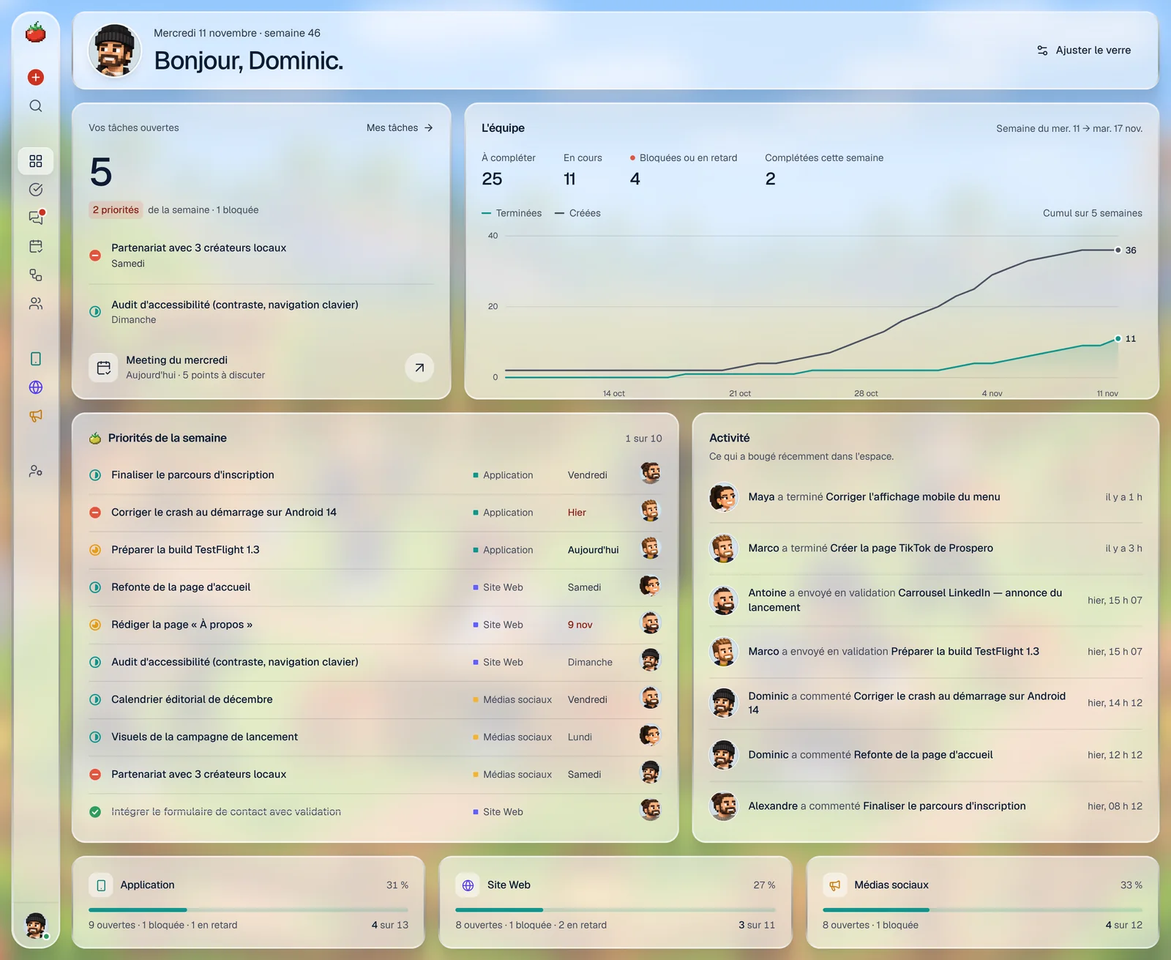
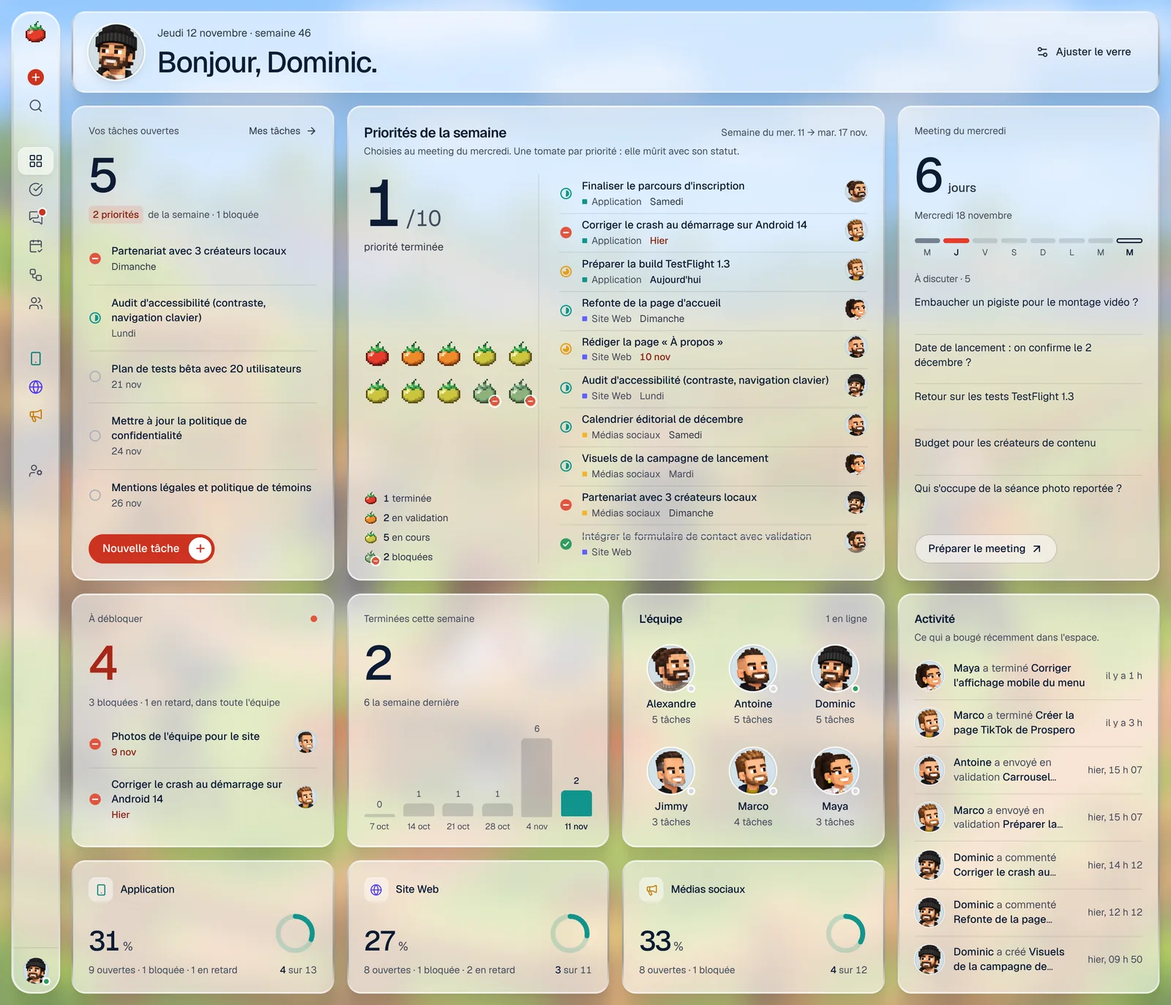
Docs: the new dashboard; a steadier arrival scenario
The design document describes the bento tile by tile (the week's priorities
and their tomato patch, the tiles led by a large figure, the meeting tile and
its dark face while a meeting runs, the team's faces, the rings), the type
scale of the figures, what moves on arrival, and the contrast as re-measured
on the eight screens. Screenshots of the dashboard retaken, one added for the
live meeting. The README follows, with the 44 scenarios.

The helper line under the heading of the priorities runs the whole width of
the tile. The arrival scenario waits for the stylesheet before reading
computed styles: it read them too early on a loaded machine.

Claude-Session: https://claude.ai/code/session_01FogaosSJpqDW3pFqCh4GHN

diff --git a/e2e/demo.spec.ts b/e2e/demo.spec.ts
@@ -418,9 +418,10 @@ test.describe("Dashboard", () => {
     // La ferme est en pleine vue, nette : ni navigation ni contenu tant que la tomate saute sur sa plaque.
     await expect(page.locator(".preloader .preloader-plate")).toBeVisible();
     await expect(page.locator('.gw-scope > div[aria-hidden] img[src*="ferme"]')).toBeVisible();
+    // (Lus en attendant qu'ils soient vrais : la feuille de style peut arriver un instant après le HTML.)
+    await expect.poll(sceneVeil).toBe("0");
     expect(await sceneFilter()).toBe("none");
-    expect(await sceneVeil()).toBe("0");
-    expect(await styleOf('nav[aria-label="Navigation principale"]', "opacity")).toBe("0");
+    await expect.poll(() => styleOf('nav[aria-label="Navigation principale"]', "opacity")).toBe("0");
     await expect(page.getByRole("heading", { name: /Dominic/ })).toBeHidden();
 
     // Elle prend son temps (la chute et deux tours de saut), puis la plaque s'en va, l'image
@@ -636,6 +637,7 @@ test.describe("Dashboard", () => {
     // Un visage mène aux tâches de la personne.
     await tile("L'équipe").getByRole("link", { name: /^Maya Martel : 3 tâches ouvertes/ }).click();
     await expect(page).toHaveURL(/\/mes-taches\?membre=/);
+    await expect(page.getByRole("heading", { name: "Tâches de Maya" })).toBeVisible();
   });
 
   test("le meeting a sa tuile : le compte à rebours et les points à discuter, puis l'horloge quand il est en direct", async ({ page }) => {

diff --git a/src/components/dashboard/panel.tsx b/src/components/dashboard/panel.tsx
@@ -34,16 +34,18 @@ export function Panel({
 }) {
   return (
     <section className={cn("gw-panel gw-reveal @container/panel", className)} style={{ animationDelay: `${delay}ms` }}>
-      <header className={cn("gw-panel-title", description && "items-start", hero && "gw-panel-hero")}>
+      <header className={cn("gw-panel-title", description && !hero && "items-start", hero && "gw-panel-hero")}>
         <div className="min-w-0">
           <div className="flex min-w-0 items-center gap-2">
             {lead}
             {quiet ? <h2 className="gw-panel-label truncate">{title}</h2> : <h2 className="truncate">{title}</h2>}
           </div>
-          {description && <p className="mt-1 text-xs leading-4 text-navy-600">{description}</p>}
+          {description && !hero && <p className="mt-1 text-xs leading-4 text-navy-600">{description}</p>}
         </div>
         {aside && <div className="flex shrink-0 items-center gap-1.5">{aside}</div>}
       </header>
+      {/* Under a large heading the line runs the whole width of the tile, not just beside the aside. */}
+      {description && hero && <p className="mb-5 text-xs leading-4 text-navy-600">{description}</p>}
       {children}
     </section>
   );

diff --git a/src/app/globals.css b/src/app/globals.css
@@ -564,7 +564,7 @@
   }
   /* The heading of the tile the page is built around. */
   .gw-panel-title.gw-panel-hero {
-    margin-bottom: 20px;
+    margin-bottom: 3px;
   }
   .gw-panel-title.gw-panel-hero h2 {
     font-size: 17px;

diff --git a/docs/DESIGN.md b/docs/DESIGN.md
@@ -11,7 +11,7 @@ Ce document décrit *pourquoi* l'interface est construite ainsi : les principes,
 | **Efficacité** | Créer et assigner une tâche : un titre, `Entrée`. Chaque propriété se modifie là où elle s'affiche, en un clic. `C` crée, `⌘K` trouve. |
 | **Minimalisme** | Du texte, des filets, de l'air. Le contenu est presque monochrome : l'encre, des gris, et très peu de couleur. La matière, elle, est du verre posé sur un paysage : c'est lui qui donne la couleur, pas des aplats ni des capsules. Une information n'apparaît qu'une fois par écran. |
 
-Ce qui a été volontairement laissé de côté : étiquettes, dépendances, estimation, automatisations réelles, vues personnalisées, tableaux de bord de graphiques (un seul graphique, sur le dashboard).
+Ce qui a été volontairement laissé de côté : étiquettes, dépendances, estimation, automatisations réelles, vues personnalisées, tableaux de bord de graphiques (un seul petit graphique, sur le dashboard : les tâches terminées par semaine).
 
 ## 2. Structure des écrans
 
@@ -38,20 +38,27 @@ Au repos, la navigation est un rail d'icônes : le contenu a toute la place. On 
 
 ### Dashboard — « où en est-on ? »
 
-Un bento de tuiles de verre posées **directement sur l'image** : pas de feuille derrière elles, jamais de verre sur du verre. Chaque tuile est le verre (son anneau, sa face claire, son ombre) ; la photo, givrée, se voit entre les tuiles comme à travers elles. Le bento occupe toute la zone à côté de la navigation et s'aligne sur elle : même haut, même bas, et le même écart de 14 px que la fenêtre des autres écrans. Sur un écran haut, la première rangée prend la place qui reste (un graphique plus haut, davantage de mes tâches) ; sur un écran plus court, le bento défile sous une navigation qui ne bouge pas. La composition vient du tableau de bord de référence : la salutation sur toute la largeur, une tuile étroite et une large, une large et une étroite, puis une rangée de tuiles égales. Les colonnes suivent la largeur disponible, pas celle de l'écran.
+Un bento de tuiles de verre posées **directement sur l'image** : pas de feuille derrière elles, jamais de verre sur du verre. Chaque tuile est le verre (son anneau, sa face claire, son ombre) ; la photo, givrée, se voit entre les tuiles comme à travers elles. Le bento occupe toute la zone à côté de la navigation et s'aligne sur elle : même haut, même bas, et le même écart de 14 px que la fenêtre des autres écrans. Sur un écran haut, la rangée des chiffres prend la place qui reste ; sur un écran plus court, le bento défile sous une navigation qui ne bouge pas.
 
-Le bento est régulier : les tuiles d'une rangée ont la même hauteur, les rangées se suivent sans trou, et aucune tuile n'est à moitié vide. Une tuile remplit la place qu'elle a avec son propre contenu : la liste des priorités donne sa hauteur à sa rangée, et les listes voisines montrent autant de lignes entières qu'il en tient (`.gw-fit`). Les lignes qui n'ont pas la place sont aussi hors du parcours clavier et des lecteurs d'écran.
+**Chaque tuile a sa forme et sa façon de parler.** Un tableau de bord dont toutes les sections sont la même tuile contenant une liste se lit mal : rien n'y dit par où commencer. Ici, une tuile large au milieu, celle autour de laquelle la page est construite (les priorités de la semaine) ; à sa gauche mes tâches, à sa droite le meeting ; trois tuiles qui sont chacune un grand chiffre ; les visages de l'équipe ; une tuile haute sur le côté (l'activité) ; et une rangée de projets. Quatre colonnes à partir de 1280 px de place, deux en dessous, une sur téléphone.
 
-1. **Salutation** : une tuile comme les autres, avec le portrait de la personne, la date et la semaine, et « Ajuster le verre ».
-2. **Vos tâches ouvertes** : le seul grand chiffre de la page, ce qu'il contient (priorités, retards, blocages), les tâches à prendre en premier (priorités, puis retards, puis ce qui est en cours) et, en dessous, le prochain **meeting du mercredi** à un clic.
-3. **L'équipe** : les quatre chiffres (à compléter · en cours · bloquées ou en retard · complétées cette semaine), puis le **rythme** : tâches créées et terminées, cumulées sur cinq semaines. L'écart entre les deux courbes est le travail ouvert ; on voit d'un coup d'œil si l'équipe ferme les tâches aussi vite qu'elle en ajoute.
-4. **Priorités de la semaine** : statut (le glyphe se clique pour le changer), titre, projet, échéance, responsable. La tomate mûrit à mesure qu'elles se terminent.
-5. **Activité** : qui a fait quoi, sur quelle tâche, et quand : un portrait, une phrase, l'heure. Autant d'événements que la hauteur des priorités le permet.
-6. **Projets** : une tuile par projet, toutes égales, avec sa barre d'avancement ; un clic ouvre le projet. Quand la fenêtre est étroite elles passent à la ligne, et la dernière rangée occupe toujours toute la largeur.
+Le bento reste régulier : les tuiles d'une rangée ont la même hauteur, les rangées se suivent sans trou, et aucune tuile n'est à moitié vide. Une tuile remplit la place qu'elle a avec son propre contenu : la liste des priorités donne sa hauteur à sa rangée, et les listes voisines montrent autant de lignes entières qu'il en tient (`.gw-fit`). Les lignes qui n'ont pas la place sont aussi hors du parcours clavier et des lecteurs d'écran.
 
-Le graphique se lit au survol ou au clavier (flèches gauche et droite, un jour à la fois) et ses chiffres existent aussi dans un tableau pour les lecteurs d'écran.
+1. **Salutation** : sur toute la largeur, avec le portrait de la personne, la date et la semaine, et « Ajuster le verre ».
+2. **Vos tâches ouvertes** : un grand chiffre, ce qu'il contient (priorités, retards, blocages), les tâches à prendre en premier (priorités, puis retards, puis ce qui est en cours) et **Nouvelle tâche**, l'action principale de la page.
+3. **Priorités de la semaine** : le score en très grand (« 1/10 »), puis le **potager** : une tomate par priorité, qui mûrit avec son statut (verte à faire, tournante en cours, orangée en validation, rouge terminée ; pâlie et marquée du glyphe « bloqué » quand elle n'avance plus), rangées de la plus mûre à la plus verte, ce qui en fait aussi une barre d'avancement. Chaque tomate est un bouton qui ouvre sa tâche. À côté, la légende et la liste : statut (le glyphe se clique pour le changer), titre, projet, échéance, responsable. Changer un statut dans la liste fait mûrir la tomate.
+4. **Meeting du mercredi** : dans combien de jours, une règle de la semaine (les sept jours qui y mènent, aujourd'hui en tomate, le meeting au bout), les points à discuter, et l'entrée. Pendant un meeting la tuile devient **sombre** (le sombre veut dire « en direct », ici comme sur la page du meeting) et montre l'horloge ; ensuite, « Terminé » et le chemin du récapitulatif.
+5. **À débloquer** : le nombre de tâches bloquées ou en retard dans toute l'équipe (le seul chiffre en rouge de la page : c'est celui qui demande quelque chose), puis les premières, à un clic.
+6. **Terminées cette semaine** : le chiffre, celui de la semaine dernière, et une barre par semaine (de mercredi à mardi) sur six semaines ; la semaine en cours est en teal.
+7. **L'équipe** : un visage, un prénom, le nombre de tâches ouvertes ; un clic ouvre les tâches de la personne.
+8. **Activité** : qui a fait quoi, sur quelle tâche, et quand : un portrait, une phrase, l'heure. C'est la tuile haute sur le côté ; elle montre autant d'événements que sa hauteur le permet.
+9. **Projets** : une tuile par projet, toutes égales, avec son pourcentage et son anneau ; un clic ouvre le projet.
+
+Les chiffres comptent depuis zéro quand leur tuile arrive, les tomates et les barres se posent l'une après l'autre, les anneaux se dessinent ; rien de tout cela ne bouge avec « moins de mouvement ». Ce que montrent ces dessins existe aussi en mots : chaque tomate porte le titre, le statut et le responsable de sa tâche, chaque barre son compte, chaque anneau « n tâches terminées sur m ».
 
 ![Dashboard](screenshots/dashboard.webp)
+
+![Le dashboard pendant un meeting : la tuile sombre et son horloge](screenshots/dashboard-en-direct.webp)
 
 ### Projet — tableau et kanban
 
@@ -171,7 +178,7 @@ Du verre sur un paysage, et un contenu très sobre posé dessus. L'idée vient d
 
 | Élément de marque | Où | Règle |
 |---|---|---|
-| **Tomate** (`kit/pixel-tomato.tsx`) | Logo, préchargeur, connexion, à côté de « Priorités de la semaine » | Grille 16 × 16, dessinée en code, tailles multiples de 16. À côté des priorités, elle **mûrit** en quatre étapes (verte → tournante → orangée → rouge) à mesure qu'elles se terminent. |
+| **Tomate** (`kit/pixel-tomato.tsx`) | Logo, préchargeur, connexion, potager des priorités de la semaine | Grille 16 × 16, dessinée en code, tailles multiples de 16. Dans le potager du dashboard il y en a une par priorité : elle **mûrit** en quatre étapes (verte → tournante → orangée → rouge) avec le statut de sa tâche. |
 | **Lettrage pixel** (`kit/pixel-text.tsx`) | Le nom, sur l'écran de connexion seulement | Alphabet 5 × 7 dessiné pixel par pixel. Jamais dans l'espace de travail. |
 | **Portraits** (`public/avatars`, `lib/avatars.ts`) | Partout où une personne apparaît : salutation, tâches, messages, équipe, navigation | Les portraits en pixel art des six partenaires, des carrés de 256 px. Un membre reçoit le sien par son nom (ou son prénom seul, quand le profil n'a que lui) ; sans portrait, l'avatar montre des initiales sur la couleur du membre. Six tailles, de 24 à 72 px : 28 px dans une ligne de tâche, 32 px dans un fil de messages, 56 à 64 px à côté de la salutation. |
 
@@ -186,7 +193,7 @@ Du verre sur un paysage, et un contenu très sobre posé dessus. L'idée vient d
 | **Tuiles** | `.gw-panel` | Deux cas, pour ne jamais poser du verre sur du verre. **Sur le dashboard**, il n'y a pas de fenêtre : chaque tuile est le verre, posée sur l'image, avec le même anneau (2 px), la même face que les feuilles (58 % par défaut) et l'ombre en huit couches. **Dans une fenêtre** (messages, paramètres), une tuile n'est qu'une zone de la feuille : une face un peu plus pleine, une arête éclairée, une ombre à peine marquée, pas d'anneau. Coins de 17 px. |
 | **Panneaux denses** | `.card-surface` | Tableaux, listes du meeting, colonnes du kanban : la même tuile, un peu plus remplie pour que le texte dense reste lisible. |
 | **En-tête de page** | `.glass` | Colle en haut de la fenêtre et floute ce qui défile dessous. |
-| **Sombre** | `.glass-dark` | Réservé à la barre du meeting en direct : le sombre veut dire « en direct ». |
+| **Sombre** | `.glass-dark`, `.gw-panel-live` | Réservé au meeting en direct : sa barre sur la page du meeting et sa tuile sur le dashboard. Le sombre veut dire « en direct ». |
 
 Tout dérive de cinq variables (`--gw-blur`, `--gw-opacity`, `--gw-saturation`, `--gw-edge`, `--gw-tint`) et d'une sixième qui s'en déduit, `--gw-scene-veil`, le voile de la photo. « Ajuster le verre » — sur le dashboard et en bas de la navigation — les règle : la scène (la ferme ou le yacht, les deux images de l'équipe), quatre préréglages (**Clair** : givre 25 %, verre 34 % ; **Poli** : 45 % et 50 %, l'aspect par défaut ; **Givré** : 70 % et 64 % ; **Opaque** : 80 % et 86 %) et des réglages fins repliés : givre de la photo, opacité du verre, saturation, reflet des bords (il dose l'anneau), teinte. Choisir une scène lui donne le givre qui lui convient (le yacht, plus sombre que les champs, vient avec un verre à 56 %) ; les préréglages et les curseurs ajustent à partir de là. Le choix est propre à chaque navigateur.
 
@@ -209,8 +216,8 @@ Règle technique : deux surfaces qui floutent ce qui est derrière elles ne s'em
 | Encre | `navy-900` | `#0D1B33` | Texte |
 | Gris | `navy-300` à `navy-600` | — | Texte secondaire, icônes, bordures. Peu saturés : le texte secondaire est gris, pas bleu. Sur le verre, le texte secondaire est en `navy-600` (voir « Encre sur verre »). |
 | Papier | `--background` | `#F2F0EB` | Sous les écrans d'erreur, et là où le flou n'est pas pris en charge |
-| Teal | `teal-500` | `#12948C` | L'avancement : la courbe des tâches terminées et les barres des projets, sur le dashboard |
-| Tomate | `tomato-600` | `#CC3320` | Le **bouton principal**, partout ; le repère « Nouvelle tâche » de la navigation ; la pastille des priorités de la semaine |
+| Teal | `teal-500` | `#12948C` | L'avancement : la barre de la semaine en cours et les anneaux des projets, sur le dashboard |
+| Tomate | `tomato-600` | `#CC3320` | Le **bouton principal**, partout ; le repère « Nouvelle tâche » de la navigation ; la pastille des priorités de la semaine ; en `tomato-700`, le chiffre « À débloquer » du dashboard |
 | Statuts | teal, jaune, corail, vert | — | Uniquement dans les glyphes de statut, l'étoile des priorités et les alertes (retard, blocage) |
 
 Les couleurs d'identification restent discrètes : une petite icône au trait pour un projet ; pour un membre, son portrait, ou à défaut une pastille pâle avec ses initiales.
@@ -229,10 +236,12 @@ Geist Sans. Chiffres tabulaires pour les compteurs et les dates. Une échelle co
 
 | Usage | Taille |
 |---|---|
-| Le chiffre du dashboard | 38 – 48 px, 500 |
-| Salutation du dashboard | 25 – 31 px, 500 |
+| Le score de la semaine (dashboard) | 76 – 118 px, 500 |
+| Les grands chiffres du dashboard | 54 – 92 px, 500, selon la largeur de leur tuile |
+| Pourcentage d'un projet | 34 – 46 px, 500 |
+| Salutation du dashboard | 26 – 36 px, 500 |
 | Titre du meeting | 22 – 26 px, 600 |
-| Chiffres de l'équipe | 21 px, 500 |
+| Titre de la tuile des priorités | 17 px, 600 |
 | Titre de page, de groupe | 15 px, 600 |
 | Corps, lignes de tâche, contrôles, titres de section | 13 px (14 px dans les formulaires) |
 | Métadonnées | 12 px |
@@ -246,9 +255,11 @@ Geist Sans. Chiffres tabulaires pour les compteurs et les dates. Une échelle co
 - **Infobulle des avatars** (`ui/animated-tooltip.tsx`) : sur les groupes d'avatars et les filtres par membre, le nom et le rôle surgissent avec un ressort et penchent avec le pointeur. Elle est rendue dans un portail : un tableau ou un panneau défilant ne la coupe jamais.
 - **Séparations** : des filets à 10 % d'encre entre les lignes d'une tuile. Les tuiles se détachent par leur arête éclairée et une ombre très courte, jamais par un contour.
 - **Avancement** : un filet de 3 px, encre sur gris, dans les listes ; une barre de 5 px, teal sur teal pâle, sur le dashboard (`kit/progress.tsx`).
-- **Graphique** (`dashboard/flow-chart.tsx`) : deux courbes de 2 px sur un seul axe, la série qui compte en teal, l'autre en gris ; grille en filets pleins, valeur au bout de chaque courbe, légende, lecture au survol.
+- **Grand chiffre** (`dashboard/figure.tsx`) : un par tuile, ce sur quoi l'œil se pose ; sa taille suit la largeur de la tuile (unités de conteneur), et il compte jusqu'à sa valeur.
+- **Potager** (`dashboard/potager.tsx`) : une tomate de 32 px par priorité, cinq par rangée ; au survol elle se soulève et dit son titre.
+- **Barres de la semaine** (`dashboard/weekly-done.tsx`) : six barres, la semaine en cours en teal, les autres en gris ; le compte posé sur chaque barre, la date dessous.
 - **Défilement** : seule la fenêtre principale défile.
-- **Mouvement** : les tuiles se posent l'une après l'autre (elles montent de 12 px et deviennent nettes, 480 ms, 45 ms d'écart) ; la coche et l'étoile « rebondissent » une fois ; la carte glissée se soulève ; un message se pose dans le fil. Tout est neutralisé avec `prefers-reduced-motion`.
+- **Mouvement** : les tuiles se posent l'une après l'autre (elles montent de 12 px et deviennent nettes, 480 ms, 45 ms d'écart) ; la coche et l'étoile « rebondissent » une fois ; la carte glissée se soulève ; un message se pose dans le fil. Sur le dashboard, les chiffres comptent depuis zéro (900 ms) quand leur tuile arrive, les tomates et les barres se posent l'une après l'autre, les anneaux se dessinent. Tout est neutralisé avec `prefers-reduced-motion`.
 - **Averse de tomates** (`app/tomato-rain.tsx`) : une tâche terminée fait tomber de huit à dix-huit tomates du logo, selon la largeur de l'écran. La largeur est découpée en tranches et chaque tomate tombe dans la sienne : jamais d'amas. Trois tailles (20, 28, 36 px), les petites plus lentes, une légère dérive et une rotation. Elles ne prennent aucun clic, et jusqu'à trois averses se superposent quand on enchaîne.
 - **Arrivée et préchargeur** : à l'ouverture, la scène est seule à l'écran, nette ; ni navigation ni fenêtre. Par-dessus, une petite plaque de verre givré, haut dans le ciel pour ne cacher personne : la tomate y tombe, s'écrase, fait un salto (elle tourne autour d'elle-même, pas autour de sa base), puis alterne petit saut et salto tant que ça charge ; les sauts sont rythmés comme un vrai lancer (vite au départ, lent en haut). Elle reste au moins 3,25 s — la chute et deux tours de saut et de salto : le temps de regarder l'image. Puis la plaque s'en va, l'image reste et se givre (le flou et le voile arrivent en 900 ms), la navigation apparaît en fondu (500 ms) et les tuiles se posent l'une après l'autre. Tout est mesuré en « pixels de tomate » (7 px, 6 px sur téléphone), en CSS pur.
 
@@ -263,7 +274,7 @@ Geist Sans. Chiffres tabulaires pour les compteurs et les dates. Une échelle co
 | `components/auth` | `LoginScreen` (la scène et la carte), `LoginForm` (lien magique, mot de passe) |
 | `components/settings` | Paramètres des administrateurs : tableau des membres, invitation, rôles |
 | `components/tasks` | `TaskLine` (ligne compacte réutilisée partout), `TaskSheet`, menus contextuels, `QuickAdd` |
-| `components/dashboard` | `Panel` (une tuile de verre) et ses contenus : `MyWeek`, `TeamPulse` et son `FlowChart`, `WeekPriorities`, `ProjectCards`, `ActivityFeed` |
+| `components/dashboard` | `Panel` (une tuile de verre), `Figure` (le grand chiffre qui compte) et les tuiles : `MyWeek`, `WeekHero` et son `Potager`, `MeetingTile`, `AtRisk`, `WeeklyDone`, `TeamFaces`, `ProjectCards`, `ActivityFeed` |
 
 Règle de composition : une information = un composant, réutilisé partout. Le statut d'une tâche a la même apparence dans le tableau, le kanban, le dashboard et le meeting.
 
@@ -287,4 +298,4 @@ Plusieurs briques viennent de composants que l'équipe a choisis comme référen
 
 ### Accessibilité
 
-Navigation complète au clavier, focus visible (anneau teal), libellés pour les boutons-icônes, zones tactiles confortables sur mobile, états jamais portés par la couleur seule (glyphe + libellé). Le bouton de menu annonce son état (`aria-expanded`). La navigation ne dépend pas du survol : au clavier, le rail se parcourt tel quel (chaque entrée garde son nom, et son infobulle au focus) et la tomate, qui est alors un bouton, l'épingle ouverte ; sur un écran tactile, toucher la tomate fait de même. Le fil des messages est une région `log`, la saisie et chaque bouton ont un libellé, et l'averse de tomates est ignorée des lecteurs d'écran. Avec « moins de mouvement », la carte de connexion ne s'incline plus et ses lumières s'éteignent, la pastille de navigation et les infobulles apparaissent sans ressort, la navigation s'ouvre sans glisser, et aucune tomate ne tombe. L'avancement, le graphique et la tomate qui mûrit ont un équivalent textuel. Sur du verre, le contraste dépend de l'image derrière : il est donc mesuré, pas déduit des couleurs du thème. Chaque morceau de texte est comparé aux pixels réellement derrière lui, sur une capture où le texte est rendu transparent, et c'est le pire endroit du mot qui compte (le 5e centile de ses pixels), pas sa moyenne. Avec les réglages par défaut, sur les huit écrans (449 morceaux de texte par scène), tout dépasse le seuil AA de 4,5:1. Sur la ferme : 8:1 et plus pour le texte principal, 5,2:1 au plus bas pour le texte secondaire. Sur le yacht, plus sombre et servi avec un verre un peu plus plein : 7:1 et 4,9:1. Le blanc sur le bouton tomate est à 5,2:1. `e2e/readability.spec.ts` refait cette mesure à chaque passage des tests, sur quatre écrans et les deux scènes. Le préréglage « Clair » passe sous le seuil pour le texte secondaire : c'est un goût, pas le réglage de lecture. « Opaque » garantit le contraste en toutes circonstances.
+Navigation complète au clavier, focus visible (anneau teal), libellés pour les boutons-icônes, zones tactiles confortables sur mobile, états jamais portés par la couleur seule (glyphe + libellé). Le bouton de menu annonce son état (`aria-expanded`). La navigation ne dépend pas du survol : au clavier, le rail se parcourt tel quel (chaque entrée garde son nom, et son infobulle au focus) et la tomate, qui est alors un bouton, l'épingle ouverte ; sur un écran tactile, toucher la tomate fait de même. Le fil des messages est une région `log`, la saisie et chaque bouton ont un libellé, et l'averse de tomates est ignorée des lecteurs d'écran. Avec « moins de mouvement », la carte de connexion ne s'incline plus et ses lumières s'éteignent, la pastille de navigation et les infobulles apparaissent sans ressort, la navigation s'ouvre sans glisser, et aucune tomate ne tombe. L'avancement, les barres de la semaine, les anneaux et les tomates du potager ont un équivalent textuel. Sur du verre, le contraste dépend de l'image derrière : il est donc mesuré, pas déduit des couleurs du thème. Chaque morceau de texte est comparé aux pixels réellement derrière lui, sur une capture où le texte est rendu transparent, et c'est le pire endroit du mot qui compte (le 5e centile de ses pixels), pas sa moyenne. Avec les réglages par défaut, sur les huit écrans (623 morceaux de texte par scène), tout dépasse le seuil AA de 4,5:1. Sur la ferme : 8:1 et plus pour le texte principal, 5,2:1 au plus bas pour le texte secondaire. Sur le yacht, plus sombre et servi avec un verre un peu plus plein : 7:1 et 4,9:1. Le blanc sur le bouton tomate est à 5,2:1. `e2e/readability.spec.ts` refait cette mesure à chaque passage des tests, sur quatre écrans et les deux scènes. Le préréglage « Clair » passe sous le seuil pour le texte secondaire : c'est un goût, pas le réglage de lecture. « Opaque » garantit le contraste en toutes circonstances.

diff --git a/README.md b/README.md
@@ -8,7 +8,7 @@ Le QG de l'équipe Prospero : nos projets, qui fait quoi, et le **meeting du mer
 
 | | |
 |---|---|
-| **Dashboard** | L'état des projets en 30 secondes, dans un bento de tuiles de verre posées directement sur l'image, de la même hauteur que la navigation : ce qui vous attend et le prochain meeting, 4 chiffres pour l'équipe et le rythme des tâches créées et terminées, priorités de la semaine, activité récente, une tuile par projet. |
+| **Dashboard** | L'état des projets en 30 secondes, dans un bento de tuiles de verre de formes différentes, posées directement sur l'image, de la même hauteur que la navigation : les priorités de la semaine avec leur score et un potager (une tomate par priorité, qui mûrit avec son statut), de grands chiffres (vos tâches, ce qui est à débloquer, ce qui a été terminé cette semaine), le prochain meeting et ses points à discuter, les visages de l'équipe, l'activité récente, une tuile par projet. |
 | **Projets** | Un tableau structuré (façon Monday) et un kanban (façon Linear) sur les mêmes données : édition en ligne, glisser-déposer, filtres, tri, archivage. |
 | **Tâches** | Responsable, statut, priorité, échéance, description, sous-tâches, commentaires et historique des changements. Une tâche terminée fait tomber une petite averse de tomates. |
 | **Mes tâches** | La vue du matin : mes priorités, en retard, en cours, à venir, complétées récemment. |
@@ -167,7 +167,7 @@ e2e/                        tests Playwright
 
 - `npm run lint`, `npm run typecheck`, `npm run build` : sans erreur ni avertissement.
 - `npm run db:test` : 139 assertions pgTAP (droits, RLS, déclencheurs, invitations, workflows, messagerie).
-- `npm run test:e2e` : 42 scénarios en mode démo — tableau, kanban, filtres et archivage, raccourcis et panneau de tâche, synchronisation entre onglets, meeting complet, workflows, réglages du verre, navigation (survol, épingle, téléphone), connexion, paramètres des membres, messagerie (écrans et règles), portraits, averse de tomates, arrivée sur la scène, bento régulier posé sur l'image (jamais de verre sur du verre) et aligné sur la navigation, lisibilité du texte sur le verre (contraste mesuré sur les deux scènes).
+- `npm run test:e2e` : 44 scénarios en mode démo — tableau, kanban, filtres et archivage, raccourcis et panneau de tâche, synchronisation entre onglets, meeting complet, workflows, réglages du verre, navigation (survol, épingle, téléphone), connexion, paramètres des membres, messagerie (écrans et règles), portraits, averse de tomates, arrivée sur la scène, bento varié mais régulier posé sur l'image (jamais de verre sur du verre) et aligné sur la navigation, grands chiffres et potager du dashboard, tuile du meeting (compte à rebours, puis horloge en direct), lisibilité du texte sur le verre (contraste mesuré sur les deux scènes).
 - Contre une instance Supabase locale : connexion par mot de passe et par lien magique, persistance en base, propagation en temps réel entre deux navigateurs (statut, commentaire, glisser-déposer, meeting en direct, canevas de workflow), présence, compte non invité bloqué puis activé depuis les paramètres, déconnexion ; messagerie à trois comptes (livraison en direct, conversation directe invisible pour un tiers dans l'interface, le temps réel et l'API, lecture persistée, suppression propagée).
 
 ## Limites connues du MVP
